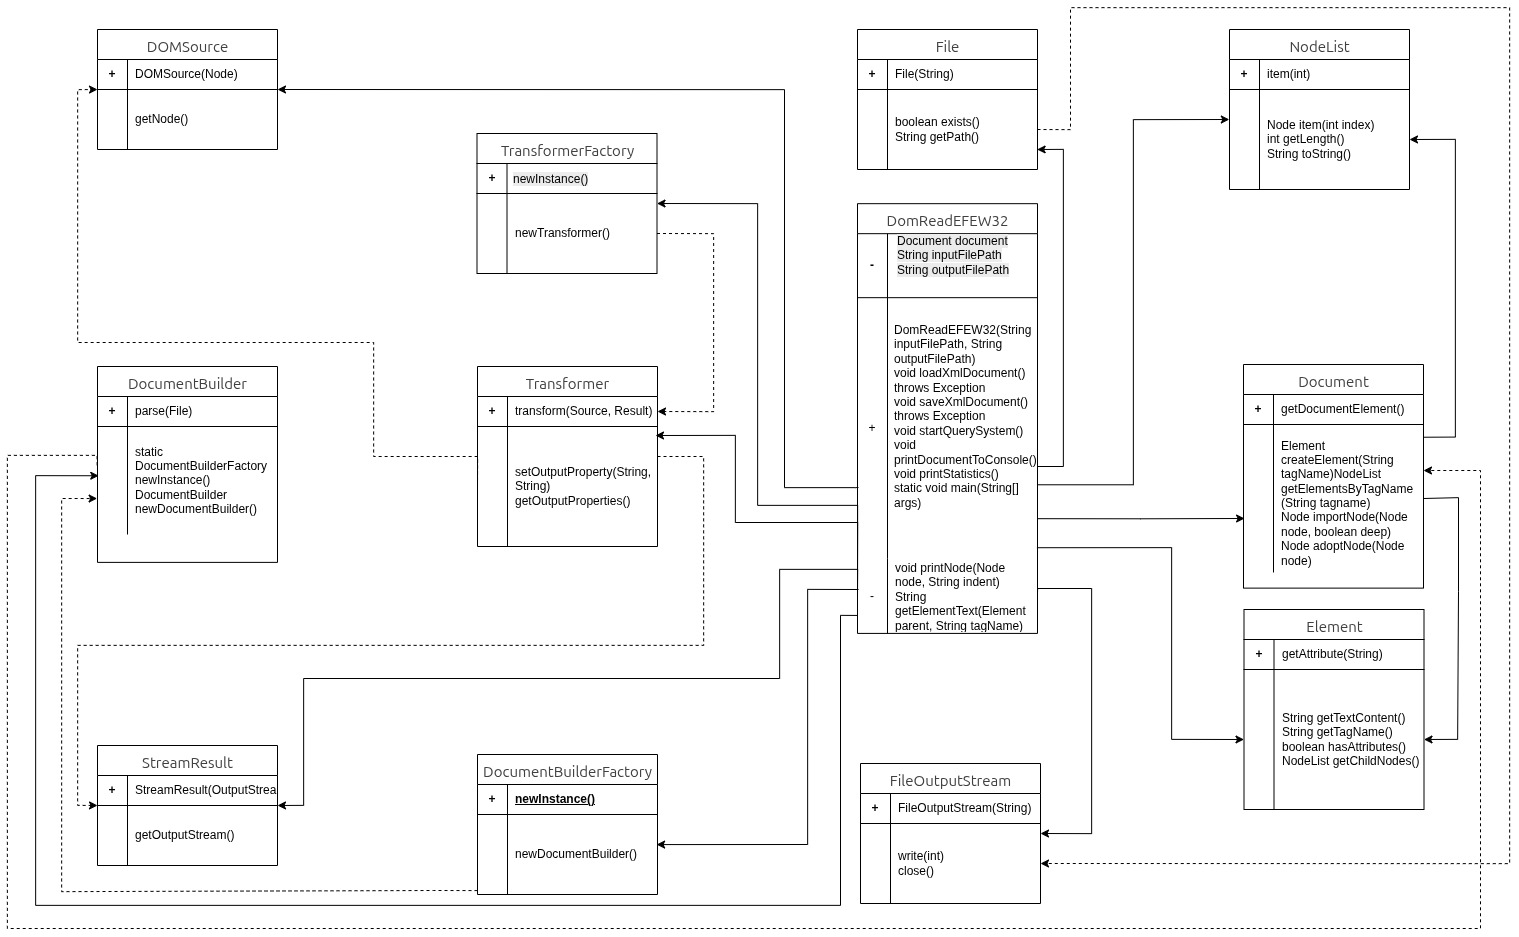
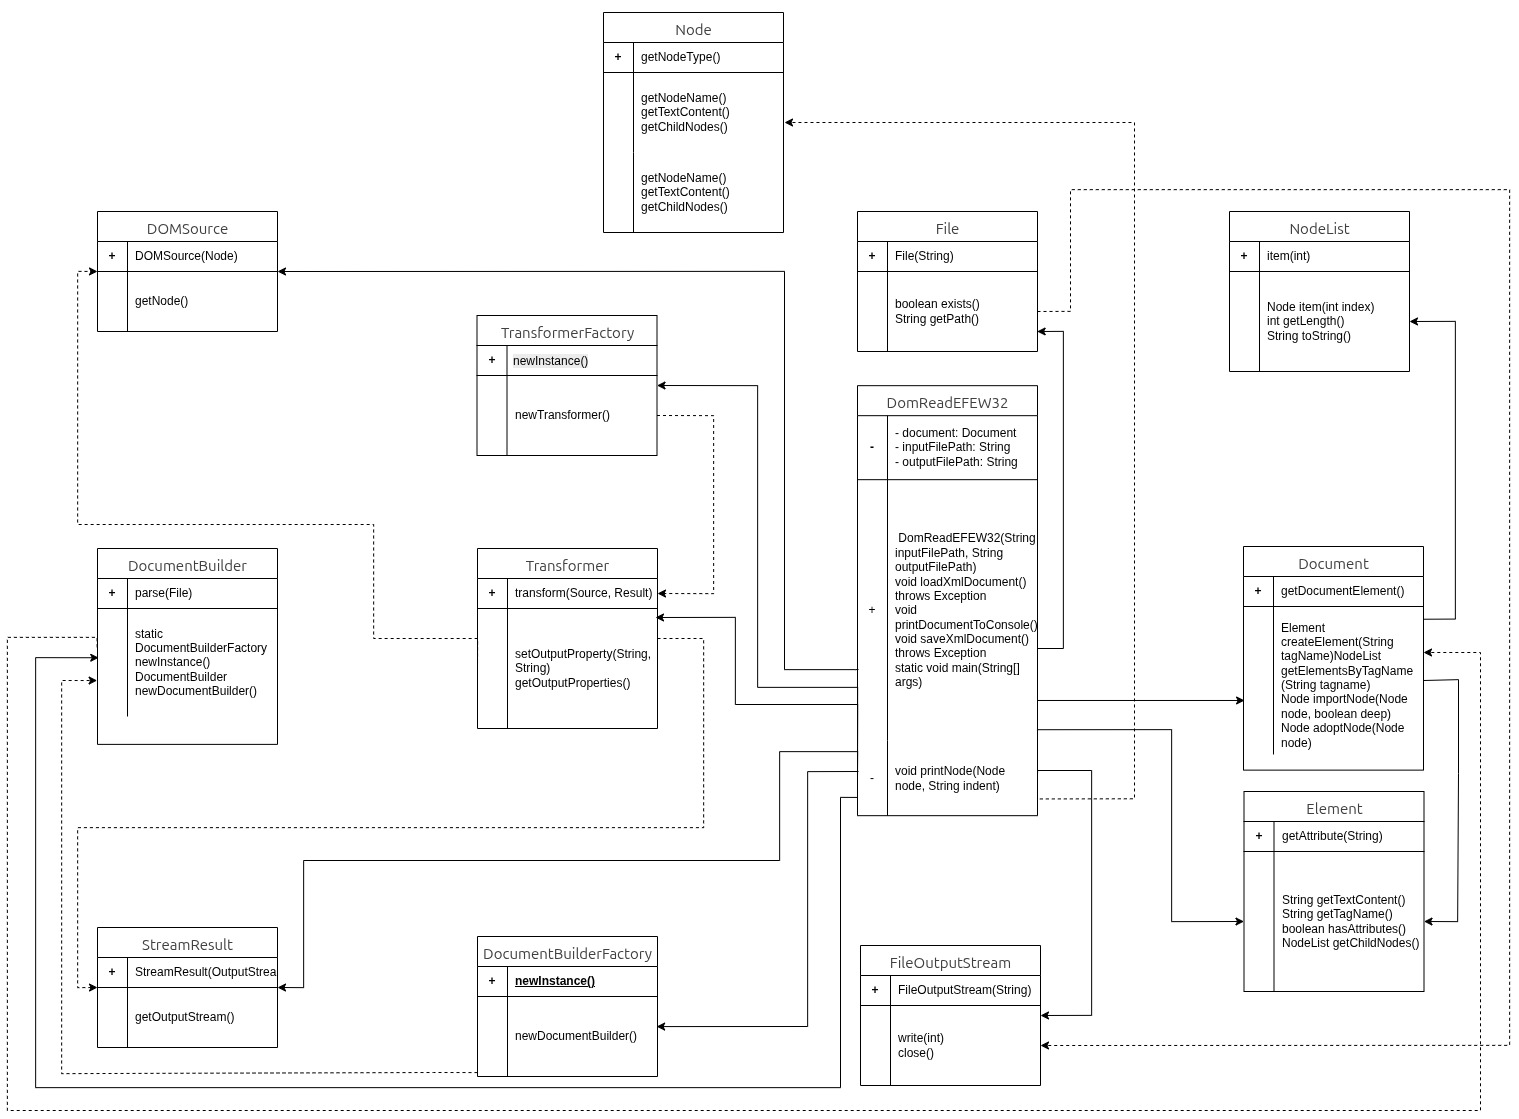
Add files via upload

diff --git a/WebXMLSemTaskEFEW32/DOMParseEFEW32/src/efew32/DomReadEFEW32.java b/WebXMLSemTaskEFEW32/DOMParseEFEW32/src/efew32/DomReadEFEW32.java
@@ -7,39 +7,22 @@ import javax.xml.transform.Transformer;
 import javax.xml.transform.TransformerFactory;
 import javax.xml.transform.dom.DOMSource;
 import javax.xml.transform.stream.StreamResult;
-import org.w3c.dom.Document;
-import org.w3c.dom.Element;
-import org.w3c.dom.Node;
-import org.w3c.dom.NodeList;
+import org.w3c.dom.*;
+
 import java.io.File;
 import java.io.FileOutputStream;
 
-/**
- * DOM parser - XML dokumentum feldolgozása
- * Beolvassa az XML dokumentumot, kiírja blokk formában a konzolra
- * és mentése a kimenet fájlba
- * @author EFEW32
- */
 public class DomReadEFEW32 {
     
     private Document document;
     private String inputFilePath;
     private String outputFilePath;
     
-    /**
-     * Konstruktor
-     * @param inputFilePath az XML bemeneti fájl elérési útja
-     * @param outputFilePath a feldolgozott XML kimeneti fájl elérési útja
-     */
     public DomReadEFEW32(String inputFilePath, String outputFilePath) {
         this.inputFilePath = inputFilePath;
         this.outputFilePath = outputFilePath;
     }
     
-    /**
-     * XML dokumentum beolvasása és feldolgozása
-     * @throws Exception az XML beolvasásakor felmerülő hibákat dobja
-     */
     public void loadXmlDocument() throws Exception {
         try {
             DocumentBuilderFactory factory = DocumentBuilderFactory.newInstance();
@@ -58,52 +41,40 @@ public class DomReadEFEW32 {
         }
     }
     
-    /**
-     * Teljes XML dokumentum kiírása blokk formában a konzolra
-     */
     public void printDocumentToConsole() {
-        System.out.println("\n=== Teljes XML Dokumentum Tartalma ===\n");
-        printNode(document.getDocumentElement(), "");
+        System.out.println("\n=== XML Dokumentum Blokkokban ===\n");
+        printNodeInBlocks(document.getDocumentElement(), 0);
     }
     
-    /**
-     * Rekurzív node kiíró metódus
-     * Fává szerkezetű kiírással jeleníti meg az XML-t
-     * @param node a feldolgozandó csomópont
-     * @param indent az aktuális behúzás
-     */
-    private void printNode(Node node, String indent) {
-        if (node.getNodeType() == Node.ELEMENT_NODE) {
-            Element element = (Element) node;
-            System.out.println(indent + "<" + element.getTagName() + ">");
-            
-            // Attribútumok kiírása
-            if (element.getAttributes().getLength() > 0) {
-                for (int i = 0; i < element.getAttributes().getLength(); i++) {
-                    Node attr = element.getAttributes().item(i);
-                    System.out.println(indent + "  @" + attr.getNodeName() + "=" + attr.getNodeValue());
-                }
+    private void printNodeInBlocks(Element element, int level) {
+        String indent = "  ".repeat(level);
+        
+        System.out.println(indent + "--- " + element.getTagName() + " ---");
+        
+        if (element.getAttributes().getLength() > 0) {
+            for (int i = 0; i < element.getAttributes().getLength(); i++) {
+                Node attr = element.getAttributes().item(i);
+                System.out.println(indent + "  " + attr.getNodeName() + ": " + attr.getNodeValue());
             }
-            
-            // Gyerek elemek rekurzív kiírása
-            NodeList children = element.getChildNodes();
-            for (int i = 0; i < children.getLength(); i++) {
-                Node child = children.item(i);
-                if (child.getNodeType() == Node.TEXT_NODE && !child.getTextContent().trim().isEmpty()) {
-                    System.out.println(indent + "  " + child.getTextContent().trim());
-                } else if (child.getNodeType() == Node.ELEMENT_NODE) {
-                    printNode(child, indent + "  ");
-                }
-            }
-            
-            System.out.println(indent + "</" + element.getTagName() + ">");
         }
+        
+        String textContent = element.getTextContent().trim();
+        if (!textContent.isEmpty() && element.getChildNodes().getLength() == 1) {
+            System.out.println(indent + "  " + textContent);
+        }
+        
+        NodeList children = element.getChildNodes();
+        for (int i = 0; i < children.getLength(); i++) {
+            Node child = children.item(i);
+            if (child.getNodeType() == Node.ELEMENT_NODE) {
+                printNodeInBlocks((Element) child, level + 1);
+            }
+        }
+        
+        System.out.println(indent + "--- /" + element.getTagName() + " ---");
+        System.out.println();
     }
     
-    /**
-     * XML dokumentum mentése fájlba formázott formában
-     * @throws Exception az XML mentésekor felmerülő hibákat dobja
-     */
     public void saveXmlDocument() throws Exception {
         if (document == null) {
             System.err.println("Nincs beolvasott dokumentum!");
@@ -114,7 +85,6 @@ public class DomReadEFEW32 {
             TransformerFactory transformerFactory = TransformerFactory.newInstance();
             Transformer transformer = transformerFactory.newTransformer();
             
-            // Kimeneti beállítások
             transformer.setOutputProperty(OutputKeys.INDENT, "yes");
             transformer.setOutputProperty(OutputKeys.ENCODING, "UTF-8");
             transformer.setOutputProperty("{http://xml.apache.org/xslt}indent-amount", "2");
@@ -132,29 +102,15 @@ public class DomReadEFEW32 {
         }
     }
     
-    /**
-     * Fő metódus - Program belépési pont
-     * 1. Beolvassa az XML dokumentumot
-     * 2. Kiírja blokk formában a konzolra
-     * 3. Mentése a kimenet fájlba
-     * @param args parancssori argumentumok (nem használt)
-     */
     public static void main(String[] args) {
         try {
-            // Fájl elérési utak
-            String inputFile = "XMLEFEW32.xml";
-            String outputFile = "XMLEFEW321.xml";
+            String inputFile = "/home/schoolbox/Asztal/WebXMLSemTaskEFEW32/XMLEFEW32.xml";
+            String outputFile = "/home/schoolbox/Asztal/WebXMLSemTaskEFEW32/XMLEFEW321.xml";
             
-            // DOM parser objektum létrehozása
             DomReadEFEW32 parser = new DomReadEFEW32(inputFile, outputFile);
             
-            // XML dokumentum beolvasása
             parser.loadXmlDocument();
-            
-            // Teljes dokumentum kiírása blokk formában a konzolra
             parser.printDocumentToConsole();
-            
-            // XML dokumentum mentése fájlba
             parser.saveXmlDocument();
             
             System.out.println("\nProgram sikeresen lefutott!");